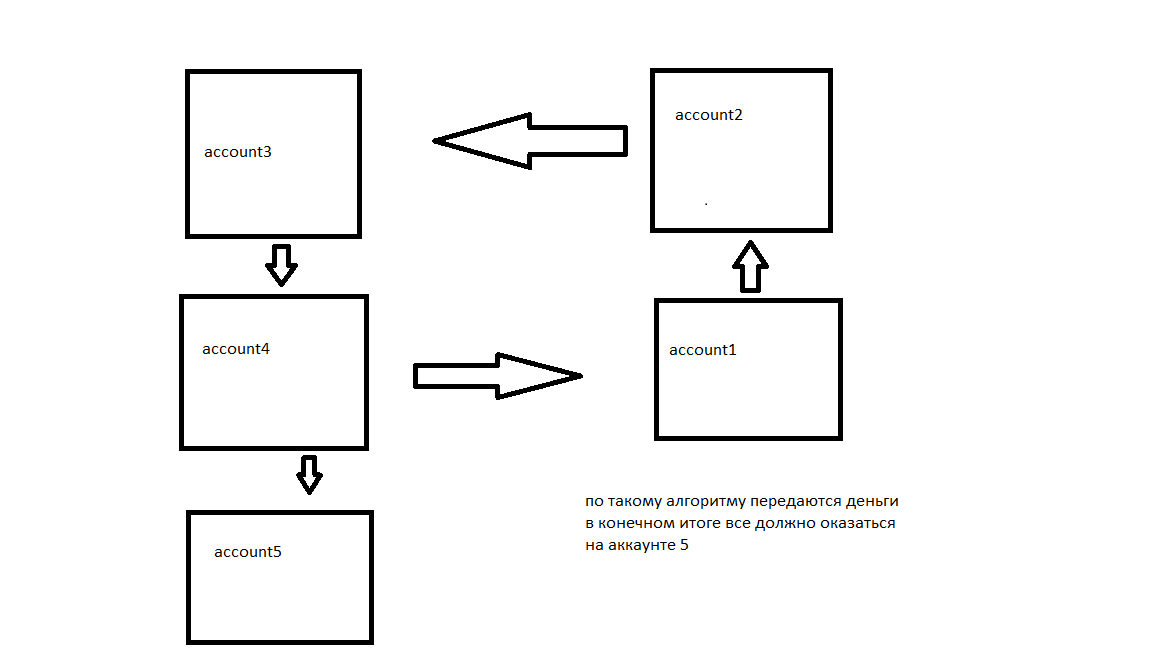
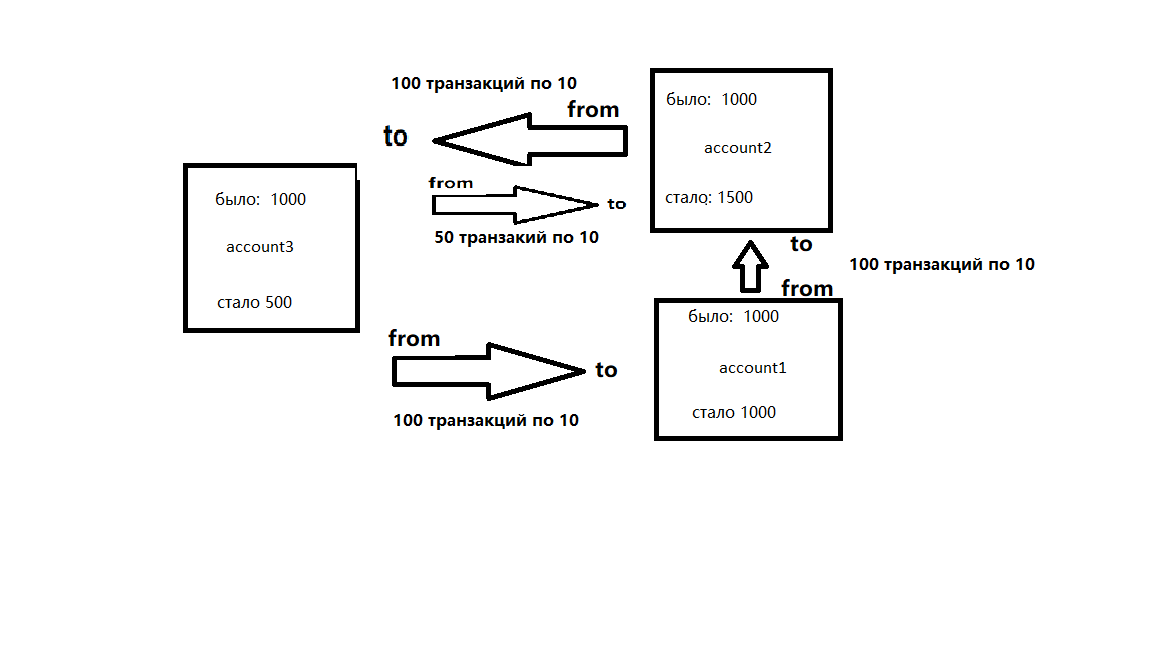
Logic was improved. Transferror was changed to Transaction

diff --git a/src/main/java/accounts/Main.java b/src/main/java/accounts/Main.java
@@ -1,46 +1,54 @@
 package accounts;
 
+import java.util.List;
 import java.util.concurrent.ExecutorService;
 import java.util.concurrent.Executors;
 import java.util.concurrent.TimeUnit;
 import java.util.logging.Logger;
+import java.util.stream.Collectors;
+import java.util.stream.Stream;
 
 public class Main {
-    private final static Logger LOGGER = Logger.getLogger(Main.class.getName());
+    private static final Logger LOGGER = Logger.getLogger(Main.class.getName());
 
     public static void main(String[] args) {
-        ExecutorService executor = Executors.newFixedThreadPool(5);
+        ExecutorService executor = Executors.newFixedThreadPool(3);
 
-        Account account1 = new Account(100, "First account");
-        Account account2 = new Account(100, "Second account");
-        Account account3 = new Account(100, "Third account");
-        Account account4 = new Account(100, "Fourth account");
-        Account account5 = new Account(100, "Fifth account");
-        long sum = account1.getAmount() + account2.getAmount() + account3.getAmount() + account4.getAmount()
-                + account5.getAmount();
+        Account account1 = new Account(1000, "First account");
+        Account account2 = new Account(1000, "Second account");
+        Account account3 = new Account(1000, "Third account");
 
-        Transferor transferor1 = new Transferor(account2, account1, 10);
-        Transferor transferor2 = new Transferor(account3, account2, 10);
-        Transferor transferor3 = new Transferor(account4, account3, 10);
-        Transferor transferor4 = new Transferor(account1, account4, 10);
-        Transferor transferor5 = new Transferor(account5, account4, 10);
+        List<Transaction> transactions1 = generateTransactions(account1, account2, 10, 100);
+        List<Transaction> transactions2 = generateTransactions(account2, account3, 10, 100);
+        List<Transaction> transactions3 = generateTransactions(account3, account1, 10, 100);
+        List<Transaction> transactions4 = generateTransactions(account2, account1, 10, 50);
 
-        executor.execute(transferor1);
-        executor.execute(transferor2);
-        executor.execute(transferor3);
-        executor.execute(transferor4);
-        executor.execute(transferor5);
+        transactions1.addAll(transactions2);
+        transactions1.addAll(transactions3);
+        transactions1.addAll(transactions4);
 
+        transactions1.forEach(executor::execute);
         executor.shutdown();
 
         try {
-            executor.awaitTermination(20, TimeUnit.SECONDS);
+            executor.awaitTermination(100, TimeUnit.SECONDS);
         } catch (InterruptedException e) {
             e.printStackTrace();
         }
 
-        LOGGER.info("account5 should have: " + sum);
-        LOGGER.info("current amount for account5: " + account5.getAmount());
-        LOGGER.info("END");
+        LOGGER.info(account1.toString());
+        LOGGER.info(account2.toString());
+        LOGGER.info(account3.toString());
+
+        assert account1.getAmount() == 1500;
+        assert account2.getAmount() == 500;
+        assert account3.getAmount() == 1000;
+    }
+
+    private static List<Transaction> generateTransactions(Account from, Account to, int amount, int limit) {
+        return Stream.generate(() -> new Transaction(from, to, amount))
+                .limit(limit)
+                .collect(Collectors.toList());
+
     }
 }

diff --git a/src/main/java/accounts/Transaction.java b/src/main/java/accounts/Transaction.java
@@ -1,0 +1,91 @@
+package accounts;
+
+import java.util.Random;
+import java.util.concurrent.locks.Lock;
+import java.util.logging.Logger;
+
+public class Transaction implements Runnable {
+
+    private final Account from;
+    private final Account to;
+    private final long amount;
+    private final Random random = new Random();
+    private int attempts;
+
+    private static final Logger LOGGER = Logger.getLogger(Transaction.class.getName());
+
+
+    public Transaction(Account from, Account to, long amount) {
+        this.from = from;
+        this.to = to;
+        this.amount = amount;
+    }
+
+    public void run() {
+        boolean areLocksAcquired = false;
+        while (attempts < 1000) {
+            try {
+                attempts++;
+                areLocksAcquired = tryToAcquireLocks();
+                if (areLocksAcquired && isTransferringPossible()) {
+                    doTransferring();
+                    LOGGER.info("run() is finished for " + Thread.currentThread().getName());
+                    return;
+
+                }
+                Thread.sleep(random.nextInt(50)); // prevents livelocks, helps not to exceed number of attempts
+            } catch (InterruptedException e) {
+                e.printStackTrace();
+            } finally {
+                if (areLocksAcquired) {
+                    releaseLocks();
+                }
+            }
+        }
+        throw new TransactionException("number of attempts exceeded");
+    }
+
+    private void releaseLocks() {
+        from.getLock().unlock();
+        to.getLock().unlock();
+    }
+
+    private void doTransferring() {
+        LOGGER.info(String.format("transferring %s from %s to %s ", amount, from.getName(), to.getName()));
+        takeMoneyFromCredit();
+        addMoneyToDebit();
+    }
+
+    private boolean isTransferringPossible() {
+        long creditAmount = from.getAmount();
+        return creditAmount - amount >= Account.MIN_AMOUNT;
+    }
+
+    private boolean tryToAcquireLocks() {
+        Lock debitLock = to.getLock();
+        if (debitLock.tryLock()) {
+            Lock creditLock = from.getLock();
+            boolean isCreditAcquired = false;
+
+            try {
+                isCreditAcquired = creditLock.tryLock();
+                if (isCreditAcquired) {
+                    return true;
+                }
+            } finally {
+                if (!isCreditAcquired) {
+                    debitLock.unlock();
+                }
+            }
+        }
+        return false;
+    }
+
+    private void takeMoneyFromCredit() {
+        from.setAmount(from.getAmount() - amount);
+    }
+
+    private void addMoneyToDebit() {
+        to.setAmount(to.getAmount() + amount);
+    }
+}

diff --git a/src/main/java/accounts/Account.java b/src/main/java/accounts/Account.java
@@ -31,4 +31,12 @@ public class Account {
     public String getName() {
         return name;
     }
+
+    @Override
+    public String toString() {
+        return "Account{" +
+                " name='" + name + "'" +
+                ", amount=" + amount +
+                '}';
+    }
 }

diff --git a/src/main/java/accounts/TransactionException.java b/src/main/java/accounts/TransactionException.java
@@ -1,0 +1,8 @@
+package accounts;
+
+public class TransactionException extends RuntimeException {
+
+    public TransactionException(String message) {
+        super(message);
+    }
+}
